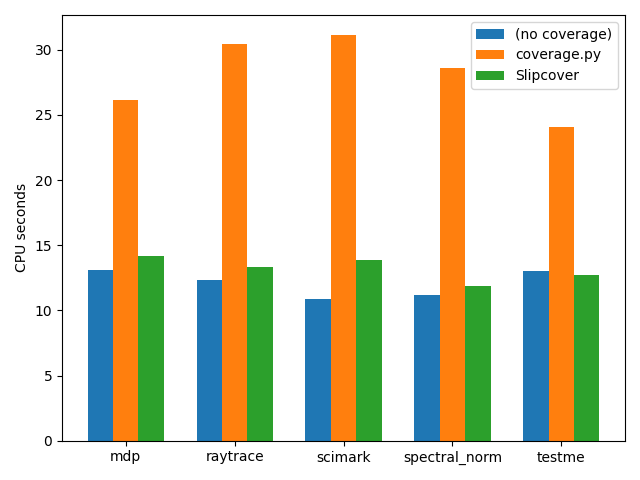
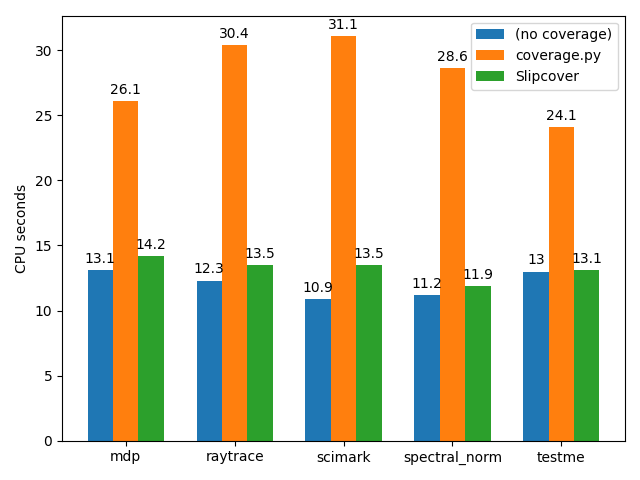
- implemented threshold based de-instrumentation, to reduce D misses;
- added comment on how that could be further improved;

- re-added times at top of benchmark bars;

- re-ran benchmarks with the new code;

diff --git a/benchmarks/run_benchmarks.py b/benchmarks/run_benchmarks.py
@@ -128,7 +128,7 @@ for case, bar_x in zip(cases, bars_x):
 #               medianprops={'color': 'black'},
 #               labels=[case.name] * len(benchmarks),
 #    )
-#    ax.bar_label(rects, padding=3)
+    ax.bar_label(rects, padding=3)
 
 #ax.set_title('Execution time')
 ax.set_ylabel('CPU seconds')

diff --git a/README.md b/README.md
@@ -40,7 +40,7 @@ and tracking coverage using Slipcover.
 While each program's structure can affect Slipcover's ability to de-instrument,
 its running time stays relatively close to the original;
 coverage.py incurs between 85% and 184% overhead, while
-Slipcover's stays below 27%.
+Slipcover's stays between 1% and 23%.
 
 Some of the sample programs are our own, while others were derived
 from the [Python Benchmark Suite](https://github.com/python/pyperformance).
